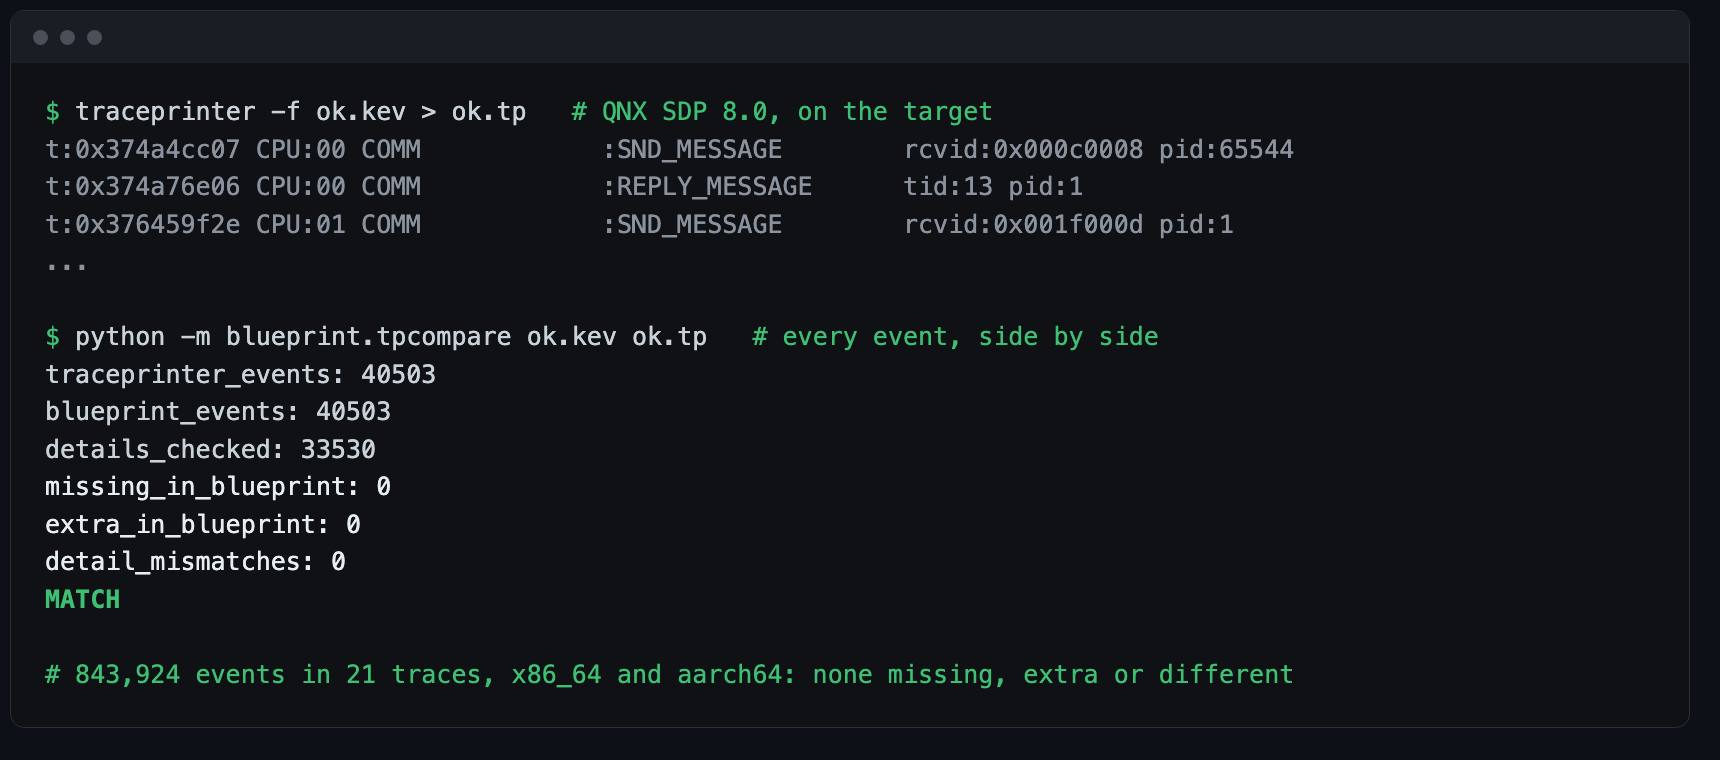
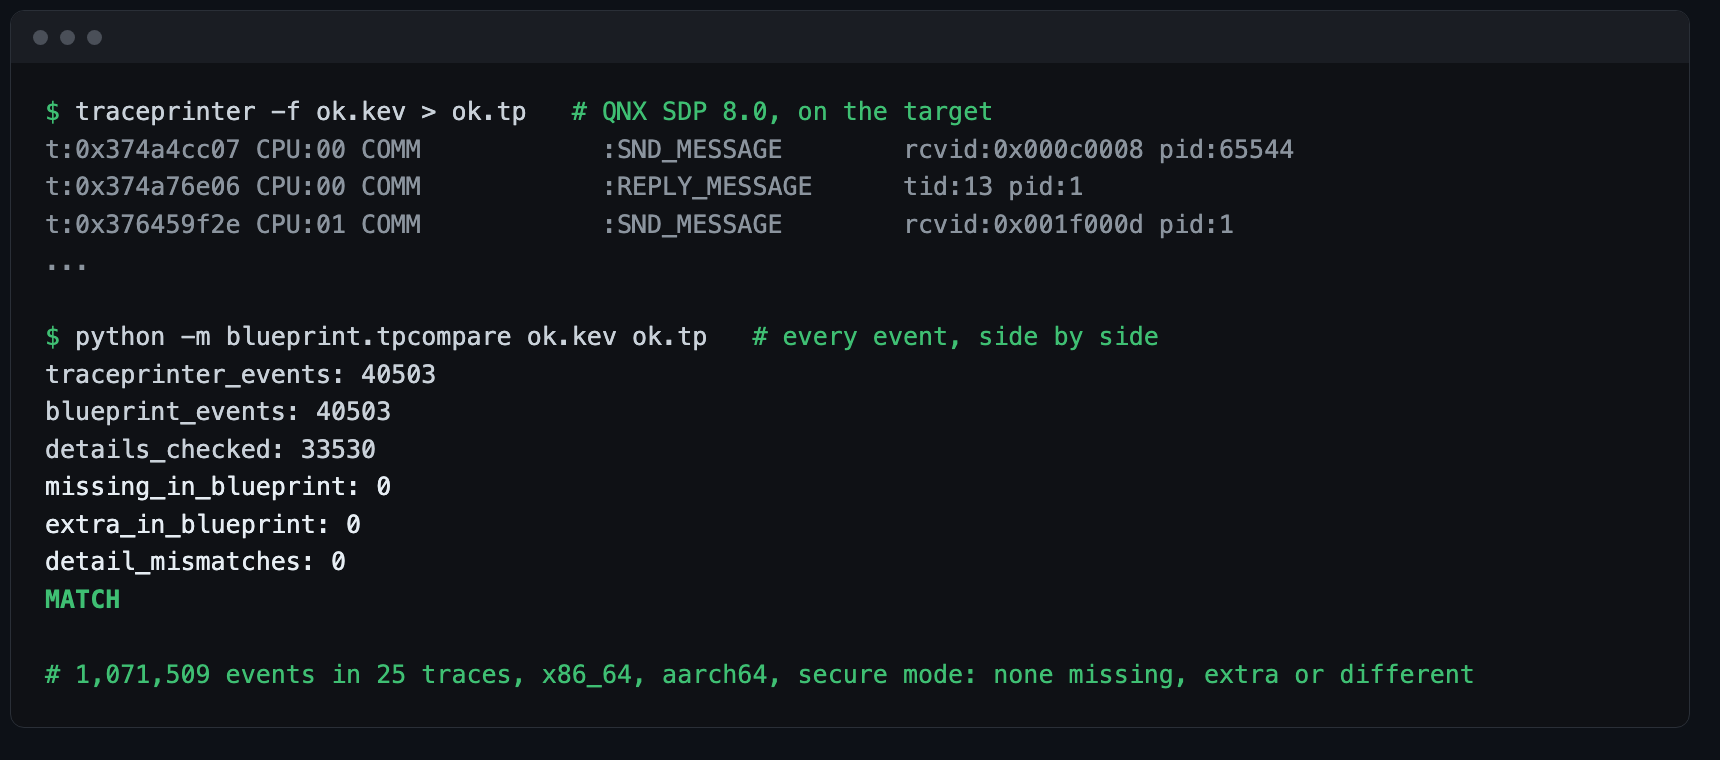
README: where the time went, cycle_ms, kernel-denied, init --review, MCP; v0.2.0

Changed region(s): [[0.0308, 0.8776, 0.8628, 0.9079]]

diff --git a/blueprint/__init__.py b/blueprint/__init__.py
@@ -1,3 +1,3 @@
 """Blueprint: architecture contracts for QNX systems, checked against kernel traces."""
 
-__version__ = "0.1.1"
+__version__ = "0.2.0"

diff --git a/README.md b/README.md
@@ -81,7 +81,13 @@ isolation:                  # when camera dies or hangs, display keeps working
     min_progress: 3
 priority_inversion_ms: 2    # experimental: time a waiting client may lose
                             # to lower priority work
+cycle_ms:                   # real-time loops, from the client's side:
+  display -> nav: 100       # display needs a route from nav at least every 100 ms
 ```
+
+`reply_budget_ms` is the server's promise, `cycle_ms` the client's deadline:
+display draws a frame about every 55 ms and needs nav's answer for each one.
+The demo's `realtime.yaml` is `blueprint.yaml` plus that line.
 
 To start from a system that already runs, record a trace and let Blueprint
 write the first draft:
@@ -97,6 +103,22 @@ times the slowest reply in that trace. A draft taken from a trace with a
 backdoor contains the backdoor, so read it and delete what you did not
 design.
 
+`--review` asks Claude to read the draft with you. For every edge it gets
+the message count, the first sends and what they carried, who else talks to
+the same server, and the source you pass with `--source`, and it marks the
+edges worth a question as comments in the draft. The format, on the backdoor
+trace (the reason is whatever Claude writes):
+
+```
+allow:
+  # review (SUSPICIOUS): <Claude's reason>. Events 57138.
+  - display -> gps                # 50 messages
+```
+
+Nothing is removed. An edge Claude names that is not in the draft, and an
+event id it was not given, are dropped; a mark with no evidence left says
+unverified. Reviews are cached like explanations.
+
 ## Checks
 
 | Check | Fails when |
@@ -105,6 +127,8 @@ design.
 | `wait-cycle` | threads end the trace waiting on each other in a loop (deadlock) |
 | `stuck-reply` | a server took a message and never replied |
 | `reply-budget` | a server replied, but slower than its budget |
+| `cycle-overrun` | a client went longer than its `cycle_ms` without an answer, or its loop stopped |
+| `kernel-denied` | the kernel refused a connection with EPERM: a security policy at work |
 | `isolation` | a process died or stopped answering and took a protected process down with it |
 | `no-traffic` | the trace shows no answered message at all, so it proves nothing |
 | `trace-loss` | kernel buffers are missing from the trace (a gap in the per-CPU buffer sequence), so no verdict on it can be trusted |
@@ -112,6 +136,24 @@ design.
 
 Every finding lists the trace events it is based on. Exit code 0 means pass,
 1 means the contract is violated, 2 means bad input.
+
+### Where the time went
+
+A slow reply or a missed cycle comes with a breakdown of its worst case,
+read from the thread states in the trace. The parts add up to the whole:
+
+```
+FAIL  [reply-budget] logger answers display too slowly
+      15 of 31 replies from logger to display took longer than 20 ms; worst 52.6 ms. ...
+      where: worst 52.6 ms: server preempted 50.4 ms (mostly media at priority 20, 50.3 ms), server running 2.0 ms, ...
+FAIL  [cycle-overrun] display -> nav cycle missed its period: worst gap 114 ms against 100 ms
+      where: in the longest gap (113.8 ms) display spent: sleeping (NANOSLEEP) 55.3 ms,
+      waiting on logger 48.5 ms (there: server preempted 46.6 ms (mostly media at priority 20, 45.1 ms)), ...
+```
+
+Queued behind another client, preempted (by which thread, at what priority,
+wall time), running, sleeping, or waiting on its own call to another server,
+followed one level into that server. The HTML report draws it as a bar.
 
 ## Record on your target, with faults
 
@@ -198,6 +240,20 @@ secure mode with a policy that matches the contract, the backdoor build fails in
 `open()` on the gps resource manager. How the demo
 policies were made is in [demo/cockpit/secpol](demo/cockpit/secpol/README.md).
 
+The refusal is in the trace too. A `ConnectAttach` the policy denies exits
+with `ret_val:-1, errno:1`, and a trace recorded on the secure image fails with
+
+```
+FAIL  [kernel-denied] the kernel refused display's connection to gps, which the contract forbids
+      ConnectAttach from display to gps failed 140 time(s) with EPERM: the security policy
+      blocked the path the contract leaves out. The build still tries it, ...
+```
+
+A refused edge that the contract allows means the policy and the contract
+disagree, or the process was started without its type. The secure-mode traces
+are in `tests/data/secure/`, and the serial logs and sessions of both secure
+images in [demo/cockpit/secpol/evidence](demo/cockpit/secpol/evidence/README.md).
+
 ## Explanations by Claude
 
 ```
@@ -213,10 +269,24 @@ evidence is marked unverified. Answers are cached next to the contract, so the
 demo and CI runs work offline. One explanation costs about 0.06 USD with
 `claude-opus-5-5`.
 
+## For coding assistants (MCP)
+
+```
+python3 -m pip install "qnx-blueprint[mcp] @ git+https://github.com/DmitriyTopka/qnx-blueprint"
+blueprint mcp
+```
+
+`blueprint mcp` is an MCP server on stdio with five tools: `check_trace`,
+`draft_contract`, `write_policy`, `check_policy` and `list_demo_traces`. Add it
+to your assistant's MCP configuration (command `blueprint`, argument `mcp`)
+and it can check a trace, read where the time went and propose a fix in one
+conversation. The tools read local files only; recording a trace over ssh
+stays a command you run yourself.
+
 ## In CI
 
 ```yaml
-- uses: DmitriyTopka/qnx-blueprint@v0.1.1
+- uses: DmitriyTopka/qnx-blueprint@v0.2.0
   with:
     trace: traces/nightly.kev
     contract: blueprint.yaml

diff --git a/docs/codelab/blueprint-architecture-contracts.md b/docs/codelab/blueprint-architecture-contracts.md
@@ -349,7 +349,7 @@ and add one step to your workflow:
 
 ```yaml
 - uses: actions/checkout@v7
-- uses: DmitriyTopka/qnx-blueprint@v0.1.1
+- uses: DmitriyTopka/qnx-blueprint@v0.2.0
   with:
     trace: traces/nightly.kev
     contract: blueprint.yaml
